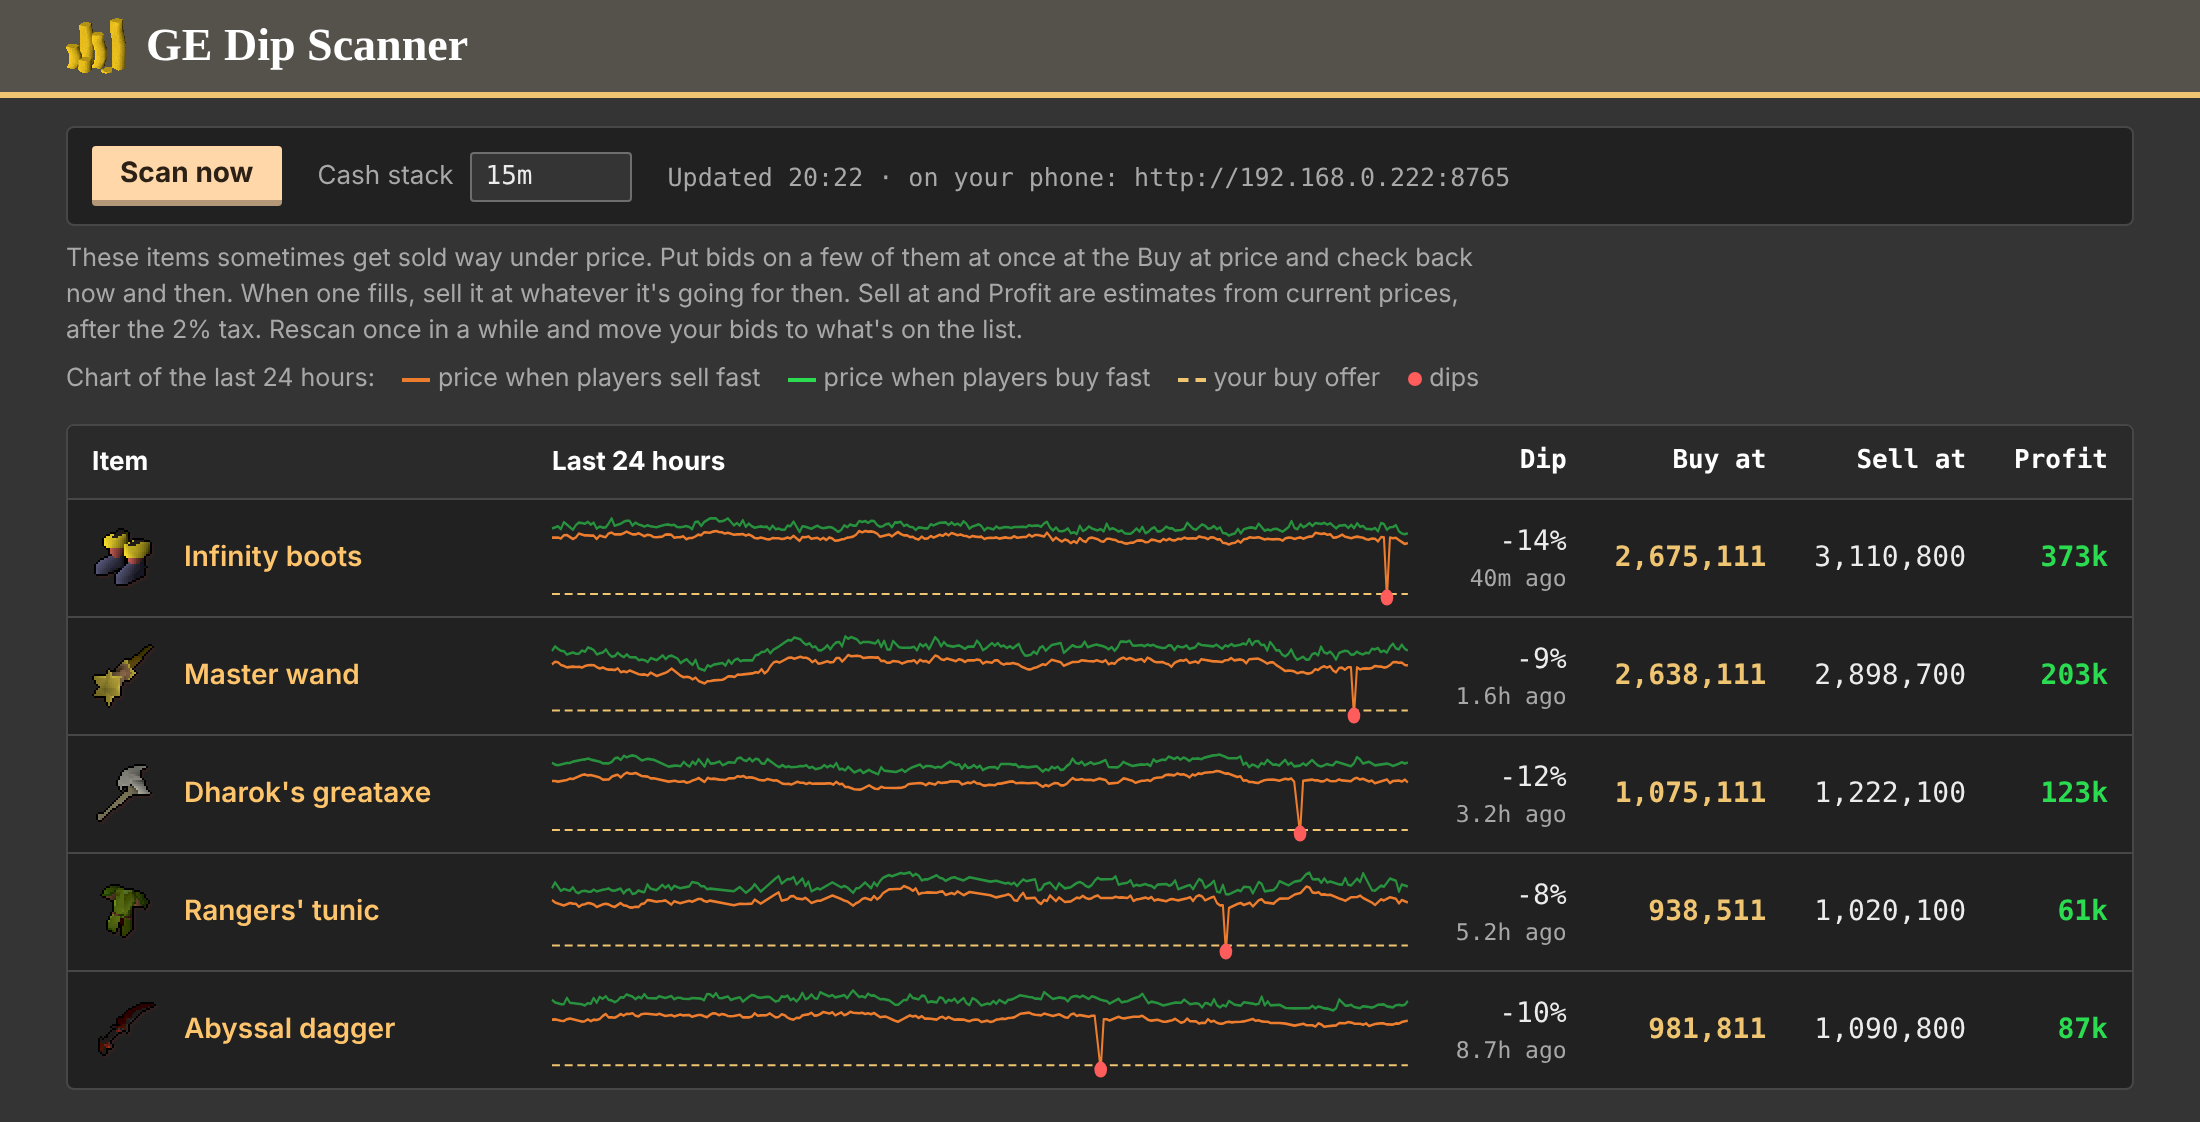
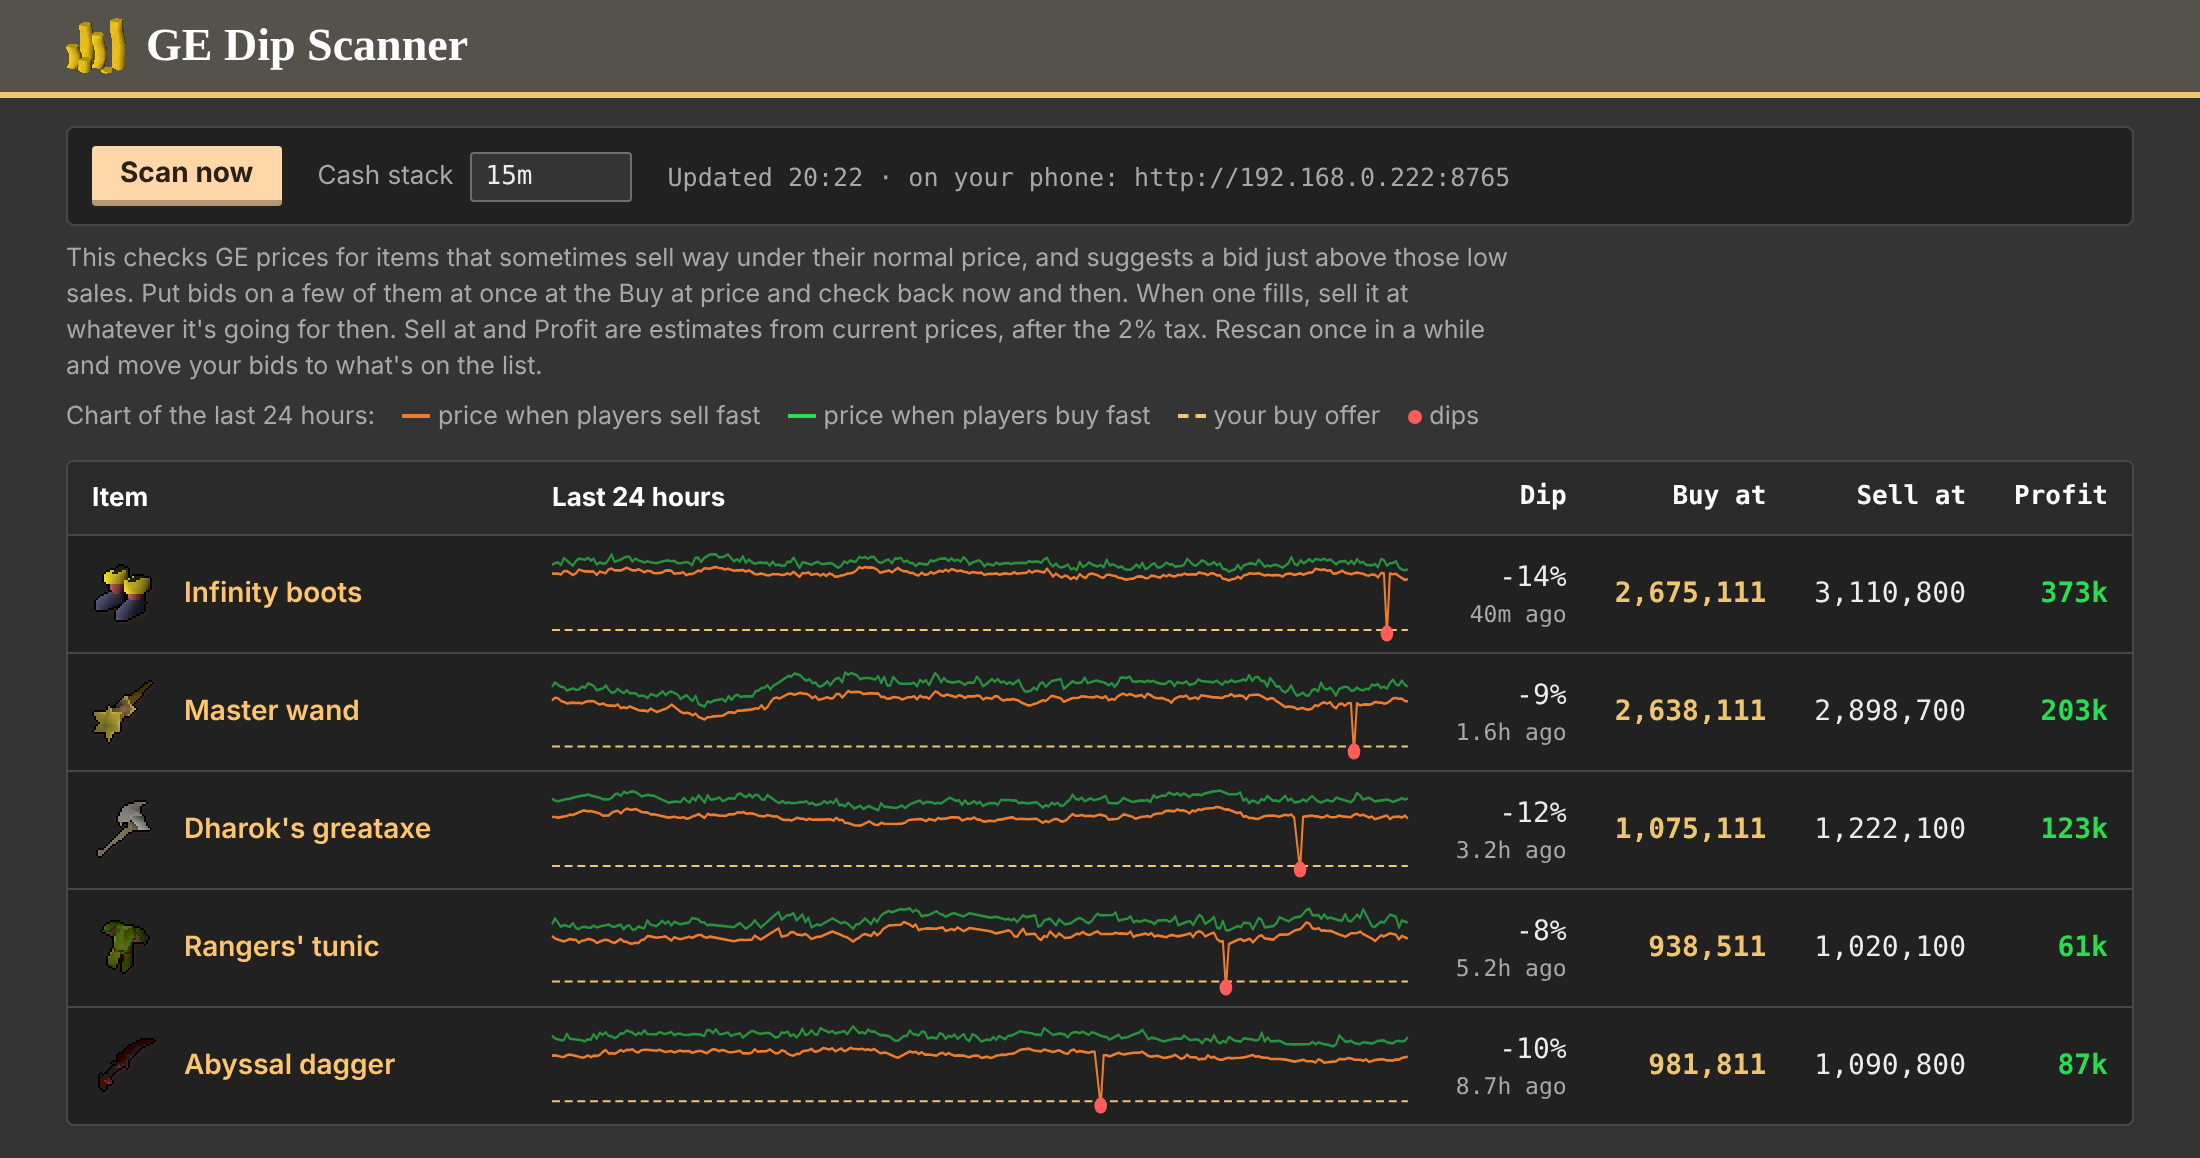
Say what the scanner does first

diff --git a/dip_scanner.py b/dip_scanner.py
@@ -704,7 +704,8 @@ th.num {{ text-align:right }}
 <main>
 {toolbar}
 <div class="legend">
-<p>These items sometimes get sold way under price. Put bids on a few of them at once at the Buy at
+<p>This checks GE prices for items that sometimes sell way under their normal price, and suggests a
+bid just above those low sales. Put bids on a few of them at once at the Buy at
 price and check back now and then. When one fills, sell it at whatever it's going for then. Sell at
 and Profit are estimates from current prices, after the 2% tax. Rescan once in a while and move your
 bids to what's on the list.</p>

diff --git a/README.md b/README.md
@@ -1,7 +1,7 @@
 # OSRS GE Dip Scanner
 
-Finds GE items that sometimes get sold way under price, and tells you what to bid. I made it for my
-own flipping.
+Checks GE prices for items that sometimes sell way under their normal price, and suggests a bid
+just above those low sales. I made it for my own flipping.
 
 ![The scanner page](docs/desktop.png)
 
